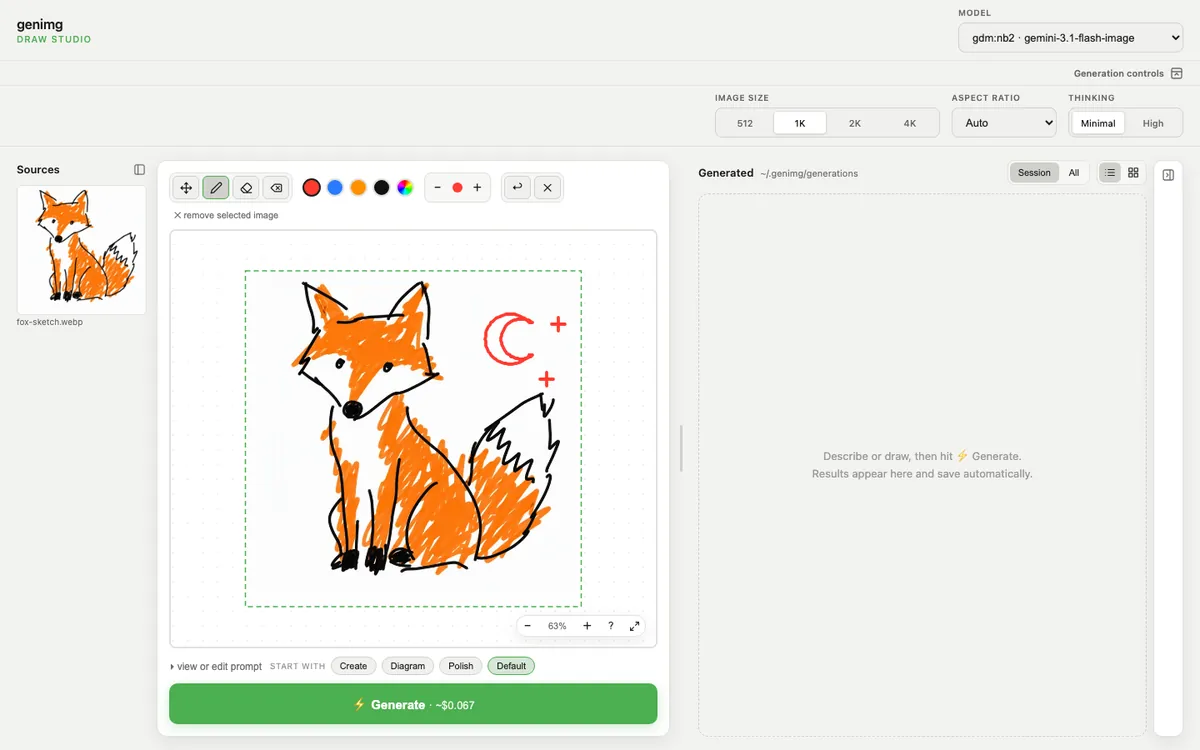
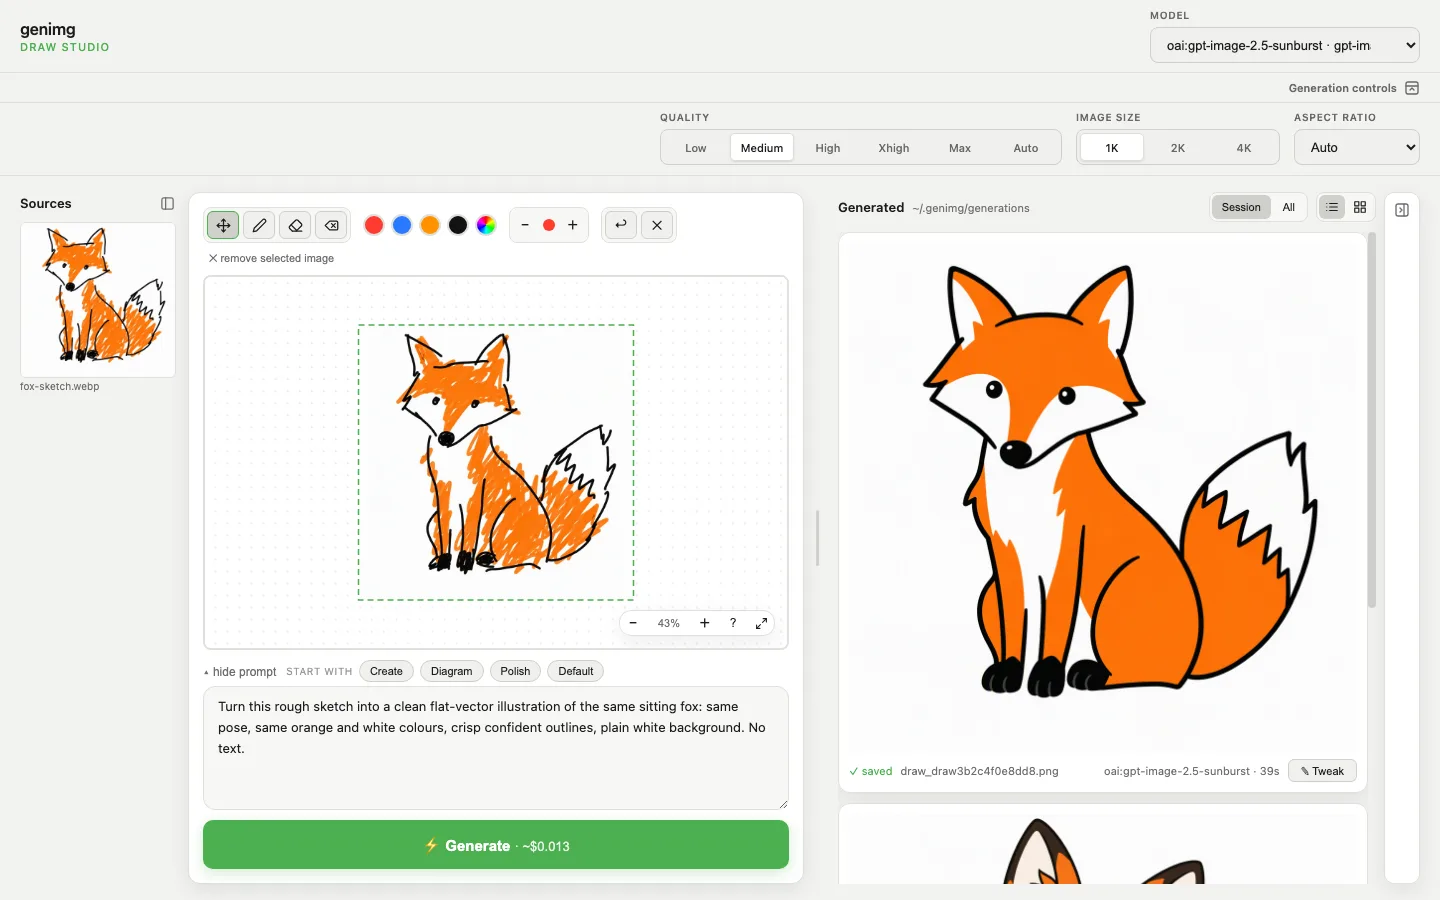
docs(draw): lead with a real sketch-to-result Generate (#62)

diff --git a/docs/visual-tools/draw-studio.md b/docs/visual-tools/draw-studio.md
@@ -4,12 +4,12 @@ Sketch on an image, then have a model redraw it. Draw Studio is a browser canvas
 serves from your own computer.
 
 ```bash
-genimg draw -m gdm:nb2 fox-sketch.webp
+genimg draw -m oai:gi2.5 fox-sketch.webp
 ```
 
 <figure markdown>
-  ![Draw Studio with a rough fox doodle on the canvas and a moon sketched beside it](../assets/draw-studio.webp)
-  <figcaption>The command above, with the doodle placed on the canvas and a moon added with the pen.</figcaption>
+  ![Draw Studio with a rough fox doodle on the canvas and the clean fox illustration GPT Image 2.5 made from it in the Generated panel](../assets/draw-studio.webp)
+  <figcaption>The command above: the doodle on the canvas, one <b>Generate</b> at medium quality (about $0.013), and the result on the right.</figcaption>
 </figure>
 
 1. Click a source image to put it on the canvas, or draw on a blank one.
